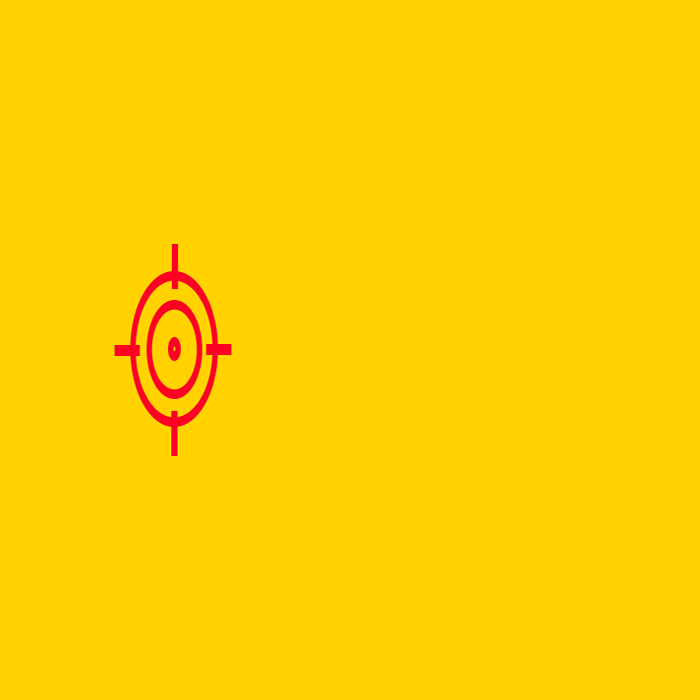
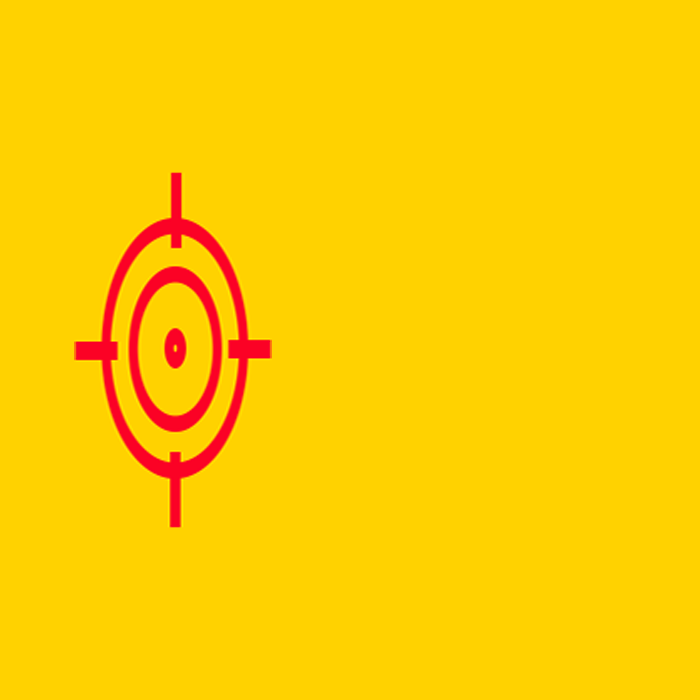
Finished Adding powerUp materials and meshes

Changed region(s): [[0.09, 0.24, 0.39, 0.75]]

diff --git a/Assets/Scripts/Collectibles/CollectibleFactory.cs b/Assets/Scripts/Collectibles/CollectibleFactory.cs
@@ -12,7 +12,7 @@ namespace Collectibles
 		private float homingRate = 1;
 
 		[SerializeField] private Mesh homingBallMesh;
-		[SerializeField] private Material homingBallMaterial;
+		[SerializeField] private Material[] homingBallMaterials;
 		[SerializeField] private Sprite homingBallSprite;
 		[SerializeField] private Sprite homingBallIcon;
 
@@ -20,7 +20,7 @@ namespace Collectibles
 		private float superThrowSpeedBoost = 1.1f;
 
 		[SerializeField] private Mesh superThrowMesh;
-		[SerializeField] private Material superThrowMaterial;
+		[SerializeField] private Material[] superThrowMaterials;
 		[SerializeField] private Sprite superThrowSprite;
 		[SerializeField] private Sprite superThrowIcon;
 
@@ -32,7 +32,7 @@ namespace Collectibles
 		[SerializeField] private LayerMask playerLayerMask;
 		[SerializeField] private GameObject explosionPrefab;
 		[SerializeField] private Mesh explodingBallMesh;
-		[SerializeField] private Material explodingBallMaterial;
+		[SerializeField] private Material[] explodingBallMaterials;
 		[SerializeField] private Sprite explodingBallSprite;
 		[SerializeField] private Sprite explodingBallIcon;
 
@@ -41,7 +41,7 @@ namespace Collectibles
 
 		[SerializeField] private GameObject fireDropperPrefab;
 		[SerializeField] private Mesh fireTrailMesh;
-		[SerializeField] private Material fireTrailMaterial;
+		[SerializeField] private Material[] fireTrailMaterials;
 		[SerializeField] private Sprite fireTrailSprite;
 		[SerializeField] private Sprite fireTrailIcon;
 
@@ -50,13 +50,13 @@ namespace Collectibles
 			return collectibleType switch
 			{
 				CollectibleType.HomingBall => new HomingBall(homingRate, homingBallMesh,
-					homingBallMaterial),
-				CollectibleType.SuperThrow => new SuperThrow(superThrowSpeedBoost, superThrowMesh, superThrowMaterial),
+					homingBallMaterials),
+				CollectibleType.SuperThrow => new SuperThrow(superThrowSpeedBoost, superThrowMesh, superThrowMaterials),
 				CollectibleType.ExplodingBall => new ExplodingBall(
 					explosionStunRadius + explosionKnockBackOuterRingWidth, explosionStunRadius,
 					knockBackVelocityMultiplier, playerLayerMask, explosionPrefab, explodingBallMesh,
-					explodingBallMaterial),
-				CollectibleType.FireTrail => new FireTrail(fireDropperPrefab, fireTrailMesh, fireTrailMaterial),
+					explodingBallMaterials),
+				CollectibleType.FireTrail => new FireTrail(fireDropperPrefab, fireTrailMesh, fireTrailMaterials),
 				_ => throw new ArgumentOutOfRangeException(nameof(collectibleType), collectibleType, null),
 			};
 		}

diff --git a/Assets/Scripts/Collectibles/PowerUp/BallPowerUps/HomingBall.cs b/Assets/Scripts/Collectibles/PowerUp/BallPowerUps/HomingBall.cs
@@ -8,19 +8,22 @@ namespace Collectibles.PowerUp.BallPowerUps
 	{
 		private readonly float _attractionRate;
 		private readonly Mesh _mesh;
-		private readonly Material _material;
+		private readonly Material[] _materials;
 		private Ball.Ball _ball;
 
 		private Transform _target;
 		private Rigidbody _ballRigidbody;
 		private IEnumerable<GameObject> _otherPlayers;
+
+		private static readonly Quaternion RotationOffset = new Quaternion(0, -0.6f, -0.8f, 0);
+		private Transform _ballTransform;
 		private const CollectibleType PowerUpType = CollectibleType.HomingBall;
 
-		public HomingBall(float attractionRate, Mesh mesh, Material material) : base(PowerUpType)
+		public HomingBall(float attractionRate, Mesh mesh, Material[] materials) : base(PowerUpType)
 		{
 			_attractionRate = -1 / attractionRate;
 			_mesh = mesh;
-			_material = material;
+			_materials = materials;
 		}
 
 		public override void Collect(GameObject collector)
@@ -36,9 +39,11 @@ namespace Collectibles.PowerUp.BallPowerUps
 
 		public void OnCharge(Ball.Ball ball)
 		{
+			_ballTransform = ball.transform;
 			ball.SetMesh(_mesh);
-			ball.SetMaterial(_material);
-			ball.transform.LookAt(_target);
+			ball.SetMaterials(_materials);
+			_ballTransform.LookAt(_target);
+			_ballTransform.rotation = RotationOffset * _ballTransform.rotation;
 			_ballRigidbody = ball.GetComponent<Rigidbody>();
 			ball.Grow();
 			_ball = ball;
@@ -57,7 +62,7 @@ namespace Collectibles.PowerUp.BallPowerUps
 				bestAngle = angle;
 				_target = playerTransform;
 			}
-			_ball.transform.LookAt(_target);
+
 			_ball.Shrink();
 		}
 
@@ -70,6 +75,8 @@ namespace Collectibles.PowerUp.BallPowerUps
 			_ballRigidbody.velocity =
 				Vector3.Slerp(currVelocity, diff * (currVelocity.magnitude / diffNorm),
 					Mathf.Pow(diffNorm + 1, _attractionRate));
+			_ballTransform.LookAt(_target);
+			_ballTransform.rotation = RotationOffset * _ballTransform.rotation;
 		}
 
 		public void OnHit(Collision collision)

diff --git a/Assets/Scripts/Collectibles/PowerUp/BallPowerUps/ExplodingBall.cs b/Assets/Scripts/Collectibles/PowerUp/BallPowerUps/ExplodingBall.cs
@@ -11,7 +11,7 @@ namespace Collectibles.PowerUp.BallPowerUps
 		private readonly LayerMask _playerLayerMask;
 		private readonly GameObject _explosionPrefab;
 		private readonly Mesh _mesh;
-		private readonly Material _material;
+		private readonly Material[] _materials;
 		private Ball.Ball _ball;
 		private GameObject _thrower;
 
@@ -21,7 +21,7 @@ namespace Collectibles.PowerUp.BallPowerUps
 
 		public ExplodingBall(float explosionKnockBackRadius, float explosionStunRadius,
 			float knockBackVelocityMultiplier, LayerMask playerLayerMask, GameObject explosionPrefab, Mesh mesh,
-			Material material) : base(PowerUpType)
+			Material[] materials) : base(PowerUpType)
 		{
 			_explosionSqrKnockBackRadius = Mathf.Pow(explosionKnockBackRadius, 2);
 			_explosionStunSqrRadius = Mathf.Pow(explosionStunRadius, 2);
@@ -29,7 +29,7 @@ namespace Collectibles.PowerUp.BallPowerUps
 			_explosionPrefab = explosionPrefab;
 			_playerLayerMask = playerLayerMask;
 			_mesh = mesh;
-			_material = material;
+			_materials = materials;
 		}
 
 		public override void Collect(GameObject collector)
@@ -46,8 +46,8 @@ namespace Collectibles.PowerUp.BallPowerUps
 		public void OnCharge(Ball.Ball ball)
 		{
 			ball.SetMesh(_mesh);
-			ball.SetMaterial(_material);
-			ball.transform.rotation=Quaternion.identity;
+			ball.SetMaterials(_materials);
+			ball.transform.rotation = Quaternion.Euler(90, 0, 0);
 			ball.Grow();
 			_ball = ball;
 		}

diff --git a/Assets/Scripts/Collectibles/PowerUp/BallPowerUps/FireTrail.cs b/Assets/Scripts/Collectibles/PowerUp/BallPowerUps/FireTrail.cs
@@ -6,7 +6,7 @@ namespace Collectibles.PowerUp.BallPowerUps
 	public class FireTrail : PowerUp, IBallPowerUp
 	{
 		private readonly Mesh _mesh;
-		private readonly Material _material;
+		private readonly Material[] _materials;
 		private Ball.Ball _ball;
 
 		private static GameObject _fireDropper;
@@ -14,7 +14,7 @@ namespace Collectibles.PowerUp.BallPowerUps
 
 		private const CollectibleType PowerUpType = CollectibleType.FireTrail;
 
-		public FireTrail(GameObject fireDropperPrefab, Mesh mesh, Material material) : base(PowerUpType)
+		public FireTrail(GameObject fireDropperPrefab, Mesh mesh, Material[] materials) : base(PowerUpType)
 		{
 			if (_fireDropper == null)
 			{
@@ -24,7 +24,7 @@ namespace Collectibles.PowerUp.BallPowerUps
 			}
 
 			_mesh = mesh;
-			_material = material;
+			_materials = materials;
 		}
 
 		public bool IsUncatchableWithRoll()
@@ -35,7 +35,7 @@ namespace Collectibles.PowerUp.BallPowerUps
 		public void OnCharge(Ball.Ball ball)
 		{
 			ball.SetMesh(_mesh);
-			ball.SetMaterial(_material);
+			ball.SetMaterials(_materials);
 			ball.Grow();
 			_ball = ball;
 		}

diff --git a/Assets/Scripts/Collectibles/PowerUp/BallPowerUps/SuperThrow.cs b/Assets/Scripts/Collectibles/PowerUp/BallPowerUps/SuperThrow.cs
@@ -6,18 +6,18 @@ namespace Collectibles.PowerUp.BallPowerUps
 	{
 		private readonly float _speedBoostFactor;
 		private readonly Mesh _mesh;
-		private readonly Material _material;
+		private readonly Material[] _materials;
 		private Ball.Ball _ball;
 
 		private Rigidbody _ballRigidBody;
 
 		private const CollectibleType PowerUpType = CollectibleType.SuperThrow;
 
-		public SuperThrow(float speedBoostFactor, Mesh mesh, Material material) : base(PowerUpType)
+		public SuperThrow(float speedBoostFactor, Mesh mesh, Material[] materials) : base(PowerUpType)
 		{
 			_speedBoostFactor = speedBoostFactor;
 			_mesh = mesh;
-			_material = material;
+			_materials = materials;
 		}
 
 		public bool IsUncatchableWithRoll()
@@ -28,7 +28,7 @@ namespace Collectibles.PowerUp.BallPowerUps
 		public void OnCharge(Ball.Ball ball)
 		{
 			ball.SetMesh(_mesh);
-			ball.SetMaterial(_material);
+			ball.SetMaterials(_materials);
 			ball.transform.rotation=Quaternion.identity;
 			_ballRigidBody = ball.GetComponent<Rigidbody>();
 			ball.Grow();

diff --git a/Assets/Scripts/Ball/Ball.cs b/Assets/Scripts/Ball/Ball.cs
@@ -63,7 +63,7 @@ namespace Ball
 			_meshRenderer = GetComponent<MeshRenderer>();
 			_meshFilter = GetComponent<MeshFilter>();
 			_shadow = GetComponentInChildren<Shadow>().gameObject;
-			_defaultBallStrategy = new DefaultBallStrategy(_meshFilter.mesh, _meshRenderer.material);
+			_defaultBallStrategy = new DefaultBallStrategy(_meshFilter.mesh, _meshRenderer.materials);
 			_ballStrategy = _defaultBallStrategy;
 		}
 
@@ -117,10 +117,10 @@ namespace Ball
 			outlineMeshFilter.mesh = mesh;
 		}
 
-		public void SetMaterial(Material material)
+		public void SetMaterials(Material[] materials)
 		{
-			if (material)
-				_meshRenderer.material = material;
+			if (materials.Length > 0)
+				_meshRenderer.materials = materials;
 		}
 
 		public void StartCharging(IBallPowerUp powerUp)

diff --git a/Assets/Scripts/Shadow.cs b/Assets/Scripts/Shadow.cs
@@ -4,6 +4,8 @@ public class Shadow : MonoBehaviour
 {
 	[SerializeField] private float modifier = 0.25f;
 	[SerializeField] private float constant = 1.075f;
+	[SerializeField] private bool staticObj;
+	[SerializeField] private Vector3 staticOffset;
 
 	private Transform _parent;
 	private Transform _transform;
@@ -14,6 +16,14 @@ public class Shadow : MonoBehaviour
 		_transform = transform;
 		_parent = _transform.parent;
 		_rotation = _transform.rotation;
+		if (!staticObj) return;
+		var pos = _parent.position;
+		var objHeight = pos.y;
+		pos.y = 0;
+		_transform.position = pos + staticOffset;
+		_transform.localScale = (modifier * objHeight + constant) * Vector3.one;
+		_transform.rotation = _rotation;
+		Destroy(gameObject);
 	}
 
 	private void LateUpdate()

diff --git a/Assets/Scripts/Ball/DefaultBallStrategy.cs b/Assets/Scripts/Ball/DefaultBallStrategy.cs
@@ -5,13 +5,13 @@ namespace Ball
 	public class DefaultBallStrategy : IBallStrategy
 	{
 		private readonly Mesh _mesh;
-		private readonly Material _material;
+		private readonly Material[] _materials;
 		private Ball _ball;
 
-		public DefaultBallStrategy(Mesh mesh, Material material)
+		public DefaultBallStrategy(Mesh mesh, Material[] materials)
 		{
 			_mesh = mesh;
-			_material = material;
+			_materials = materials;
 		}
 
 		public bool IsUncatchableWithRoll()
@@ -22,7 +22,7 @@ namespace Ball
 		public void Apply(Ball ball)
 		{
 			ball.SetMesh(_mesh);
-			ball.SetMaterial(_material);
+			ball.SetMaterials(_materials);
 		}
 
 		public void OnCharge(Ball ball)

diff --git a/Assets/Scripts/LookAtCamera.cs b/Assets/Scripts/LookAtCamera.cs
@@ -1,0 +1,19 @@
+using UnityEngine;
+
+[ExecuteInEditMode]
+public class LookAtCamera : MonoBehaviour
+{
+	[SerializeField] private Quaternion offset;
+
+	private void OnValidate()
+	{
+		transform.LookAt(Camera.main.transform.position);
+		transform.rotation = offset * transform.rotation;
+		print(offset);
+		print(offset.eulerAngles);
+		print(Quaternion.Inverse(transform.rotation));
+		print(Quaternion.Inverse(transform.rotation).eulerAngles);
+		print(Quaternion.Euler(50, 0, 0) * Quaternion.Inverse(transform.rotation));
+		print((Quaternion.Euler(50, 0, 0) * Quaternion.Inverse(transform.rotation)).eulerAngles);
+	}
+}

diff --git a/Assets/Scripts/Managers/MatchManager.cs b/Assets/Scripts/Managers/MatchManager.cs
@@ -51,6 +51,7 @@ namespace Managers
 
 		#region Public C# Events
 
+		public static event Action MatchStarted;
 		public static event Action MatchEnded;
 
 		#endregion
@@ -65,6 +66,7 @@ namespace Managers
 			GameManager.Shared.AwakeAI();
 			_spawner = StartCoroutine(SpawnCollectible());
 			_diagonal = Mathf.Sqrt(Mathf.Pow(_arenaDimensions.x, 2) + Mathf.Pow(_arenaDimensions.y, 2));
+			MatchStarted?.Invoke();
 		}
 
 		private void OnDestroy()

diff --git a/Assets/Scripts/Player/AIController.cs b/Assets/Scripts/Player/AIController.cs
@@ -1,3 +1,4 @@
+using System;
 using Managers;
 using UnityEngine;
 
@@ -19,8 +20,14 @@ namespace Player
 		{
 			_rightSide = transform.position.x > 0;
 			_brain = GetComponent<PlayerBrain>();
+			MatchManager.MatchStarted += OnEnable;
 			if (otherPlayer == null)
 				otherPlayer = GameManager.Players[0].transform;
+		}
+
+		private void OnDestroy()
+		{
+			MatchManager.MatchStarted -= OnEnable;
 		}
 
 		private void OnEnable()
